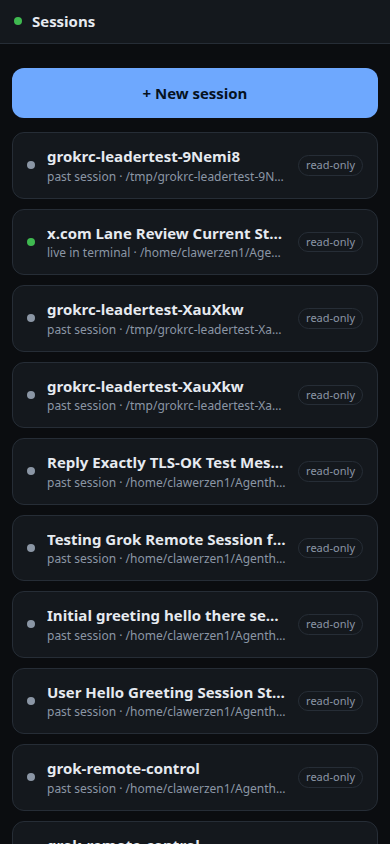
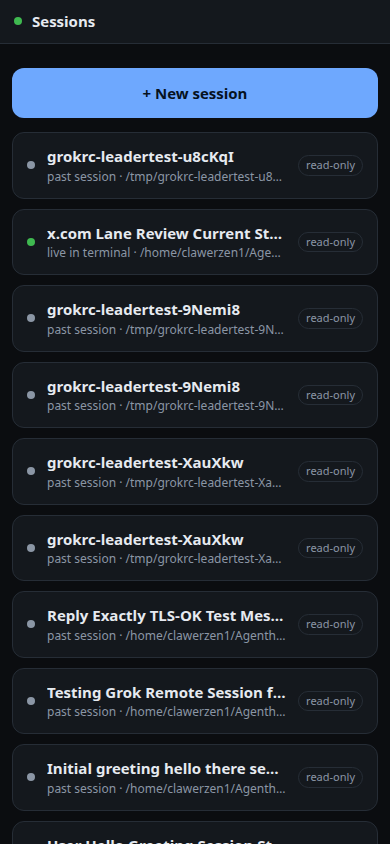
Join leader-hosted sessions; refuse standalone ones
Goal: start a session in the terminal and drive it from the phone. That needs a
shared backend, so `[cli] use_leader = true` in grok's config plus `grokrc up
--leader`. Verified the mechanism: `--leader` auto-spawns
`grok agent leader --no-exit-on-disconnect`, the socket appears, and
`grok leader list` reports it reachable.

A BUG I INTRODUCED AND CAUGHT BEFORE IT COULD BITE
  The first version gated "Take control" on whether OUR DAEMON runs with
  --leader. That is the wrong question. A session started before leader mode was
  enabled still belongs to a standalone agent, so the phone would have happily
  attached a SECOND agent to a live 13-hour conversation — precisely the
  corruption the guard existed to prevent.
  What actually makes joining safe is the OWNING process being a leader. Each
  active session's pid is now inspected (`ps -o args=`) and only
  `agent leader` processes are joinable. Confirmed against the real running TUI:
  pid 718552 → leaderHosted false → resume refused, watch-only.
  SessionInfo gained `joinable` alongside `externallyActive`; they are different
  questions and conflating them was the bug.

SYSTEMD FIXES (both found by running it, not reading it)
  - install.sh used `enable --now`, which does NOT restart an already-running
    service, so re-running with new flags silently kept the old ones.
  - ExecStart used ${GROKRC_ARGS}, which systemd passes as ONE argument;
    "--lan --leader" parsed as neither. $GROKRC_ARGS (unbraced) word-splits.
[…]

diff --git a/src/daemon/session-manager.ts b/src/daemon/session-manager.ts
@@ -48,6 +48,37 @@ function assertSafeSessionId(id: string): void {
   }
 }
 
+export interface ActiveSession {
+  sessionId: string;
+  pid: number;
+  cwd: string;
+  /**
+   * The owning process is a shared `grok agent leader`, so another client may
+   * safely join the SAME backend. A standalone TUI is not joinable — attaching
+   * would create a second, independent agent on one conversation.
+   */
+  leaderHosted: boolean;
+}
+
+/**
+ * Is this pid a shared leader?
+ *
+ * Asking whether *our daemon* runs with --leader is the wrong question: a
+ * session started before leader mode was enabled still belongs to a standalone
+ * agent. The only thing that makes joining safe is the OWNING process being a
+ * leader, so that is what gets checked.
+ */
+async function isLeaderProcess(pid: number): Promise<boolean> {
+  try {
+    const { execFile } = await import('node:child_process');
+    const { promisify } = await import('node:util');
+    const { stdout } = await promisify(execFile)('ps', ['-o', 'args=', '-p', String(pid)]);
+    return /\bagent\s+leader\b/.test(stdout);
+  } catch {
+    return false; // unknown ⇒ treat as not joinable
+  }
+}
+
 /** cwd becomes a path segment and a process spawn directory. */
 function assertSafeCwd(cwd: string): void {
   if (typeof cwd !== 'string' || !cwd.startsWith('/')) {
@@ -75,6 +106,13 @@ export interface SessionInfo {
    * session, so the UI must offer watching only.
    */
   externallyActive?: boolean;
+  /**
+   * The owning process is a shared leader, so this daemon can attach to the SAME
+   * backend. Distinct from `externallyActive`: a session can be live elsewhere
+   * and still not be joinable — which is true of anything started before leader
+   * mode was turned on.
+   */
+  joinable?: boolean;
 }
 
 interface LiveSession {
@@ -124,6 +162,15 @@ export class SessionManager extends EventEmitter {
   constructor(opts: SessionManagerOptions = {}) {
     super();
     this.#opts = opts;
+  }
+
+  /**
+   * True when agents share one `grok agent leader` backend. It changes what the
+   * UI may offer: a session another process owns can be JOINED (same backend)
+   * rather than only watched.
+   */
+  get leaderMode(): boolean {
+    return this.#opts.useLeader === true;
   }
 
   /** Emitted for every event on any session. */
@@ -351,13 +398,19 @@ export class SessionManager extends EventEmitter {
       throw new Error(`no persisted session ${id} under ${cwd}`);
     }
 
-    // Refuse in the daemon, not just the UI: resuming a session a terminal still
-    // owns would put two agents on one conversation, each unaware of the other's
-    // writes. Watch it instead.
-    const active = await this.activeOnDisk();
-    if (active.some((a) => a.sessionId === id)) {
+    // Attaching to a session another process owns is only dangerous WITHOUT a
+    // shared leader: two independent agents on one conversation, each blind to
+    // the other's writes. With `--leader` they are the same backend, so joining
+    // is the intended behaviour — that is the whole point of leader mode.
+    // Joining is safe only when the OWNING process is a shared leader — then it
+    // is the same backend, which is the point of leader mode. A standalone TUI
+    // (including any session started before leader mode was enabled) is not
+    // joinable: a second agent on one conversation corrupts it.
+    const owner = (await this.activeOnDisk()).find((a) => a.sessionId === id);
+    if (owner && !(owner.leaderHosted && this.#opts.useLeader)) {
       throw new Error(
-        `session ${id} is live in another process — watch it read-only, or close that terminal first`
+        `session ${id} is live in a standalone process (pid ${owner.pid}) — watch it read-only, ` +
+          `or close it and reopen with a shared leader to drive it from here`
       );
     }
 
@@ -489,8 +542,10 @@ export class SessionManager extends EventEmitter {
       return out;
     }
 
-    // Which sessions a terminal still owns — those can be watched but not resumed.
-    const activeIds = new Set((await this.activeOnDisk()).map((a) => a.sessionId));
+    // Which sessions another process still owns, and whether that process is a
+    // shared leader (joinable) or standalone (watch-only).
+    const active = await this.activeOnDisk();
+    const activeById = new Map(active.map((a) => [a.sessionId, a]));
 
     for (const encodedCwd of dirs) {
       const cwd = safeDecode(encodedCwd);
@@ -518,7 +573,8 @@ export class SessionManager extends EventEmitter {
             createdAt: toMs(s.created_at),
             updatedAt: toMs(s.updated_at),
             pendingApprovals: 0,
-            externallyActive: activeIds.has(s.info?.id ?? id),
+            externallyActive: activeById.has(s.info?.id ?? id),
+            joinable: activeById.get(s.info?.id ?? id)?.leaderHosted ?? false,
           });
         } catch {
           // Not every directory has a readable summary (partial writes, subagents).
@@ -535,20 +591,26 @@ export class SessionManager extends EventEmitter {
    * entry's pid is checked — a stale record would otherwise permanently mark a
    * finished session as un-resumable.
    */
-  async activeOnDisk(): Promise<{ sessionId: string; pid: number; cwd: string }[]> {
+  async activeOnDisk(): Promise<ActiveSession[]> {
     try {
       const raw = await readFile(join(GROK_HOME, 'active_sessions.json'), 'utf8');
       const arr = JSON.parse(raw) as { session_id: string; pid: number; cwd: string }[];
-      return arr
-        .filter((a) => {
-          try {
-            process.kill(a.pid, 0); // signal 0 = liveness probe, sends nothing
-            return true;
-          } catch {
-            return false;
-          }
-        })
-        .map((a) => ({ sessionId: a.session_id, pid: a.pid, cwd: a.cwd }));
+      const live = arr.filter((a) => {
+        try {
+          process.kill(a.pid, 0); // signal 0 = liveness probe, sends nothing
+          return true;
+        } catch {
+          return false;
+        }
+      });
+      return Promise.all(
+        live.map(async (a) => ({
+          sessionId: a.session_id,
+          pid: a.pid,
+          cwd: a.cwd,
+          leaderHosted: await isLeaderProcess(a.pid),
+        }))
+      );
     } catch {
       return [];
     }

diff --git a/web/app.js b/web/app.js
@@ -127,6 +127,8 @@ const state = {
   planNode: null,
   busy: false,
   backoff: 500,
+  /** Daemon shares one `grok agent leader` backend — set from the ready frame. */
+  leaderMode: false,
 };
 
 /* ─── views ──────────────────────────────────────────────────────────────── */
@@ -234,6 +236,7 @@ function sendMsg(payload) {
 function handle(msg) {
   switch (msg.t) {
     case 'ready':
+      state.leaderMode = !!msg.leaderMode;
       show(el.vList);
       sendMsg({ t: 'sessions' });
       break;
@@ -400,21 +403,28 @@ function renderResumeBar(s) {
   const label = document.createElement('div');
   label.className = 'sub';
 
-  // A session a terminal still owns must NOT offer Resume — that would put a
-  // second agent on the same conversation. Watching is the correct action.
-  if (s.externallyActive) {
+  // A session another process owns can only be JOINED when a shared leader is
+  // running — otherwise taking it would put a second, independent agent on the
+  // same conversation. Without a leader, watching is the only safe action.
+  // `joinable` is the daemon's verdict on the OWNING process — a session can be
+  // live elsewhere and still not joinable (anything started before leader mode
+  // was on). Trust that flag, not merely "is something else running".
+  if (s.externallyActive && !(s.joinable && state.leaderMode)) {
     label.textContent =
-      '● Live in your terminal — mirroring it here, read-only. It updates as the agent works.';
+      '● Live in a terminal that is not sharing a backend — mirroring it here, read-only. ' +
+      'Restart that session with a shared leader to drive it from your phone.';
     bar.append(label);
     el.vSession.prepend(bar);
     return;
   }
 
-  label.textContent = 'Read-only. Reopen it to keep going.';
+  label.textContent = s.externallyActive
+    ? '● Live in your terminal, on a shared backend — you can drive it from here too.'
+    : 'Read-only. Reopen it to keep going.';
 
   const btn = document.createElement('button');
   btn.className = 'btn-primary';
-  btn.textContent = 'Resume session';
+  btn.textContent = s.externallyActive ? 'Take control' : 'Resume session';
   btn.addEventListener('click', () => {
     btn.disabled = true;
     btn.textContent = 'Resuming…';

diff --git a/src/daemon/server.ts b/src/daemon/server.ts
@@ -432,7 +432,13 @@ export class RemoteControlServer {
         return;
       }
       client.device = device;
-      send(client.ws, { t: 'ready', device: { id: device.id, name: device.name } });
+      // leaderMode tells the client whether a session another process owns can
+      // be joined (shared backend) or only watched.
+      send(client.ws, {
+        t: 'ready',
+        device: { id: device.id, name: device.name },
+        leaderMode: this.#opts.sessions.leaderMode,
+      });
       await this.#sendSessions(client);
       return;
     }
